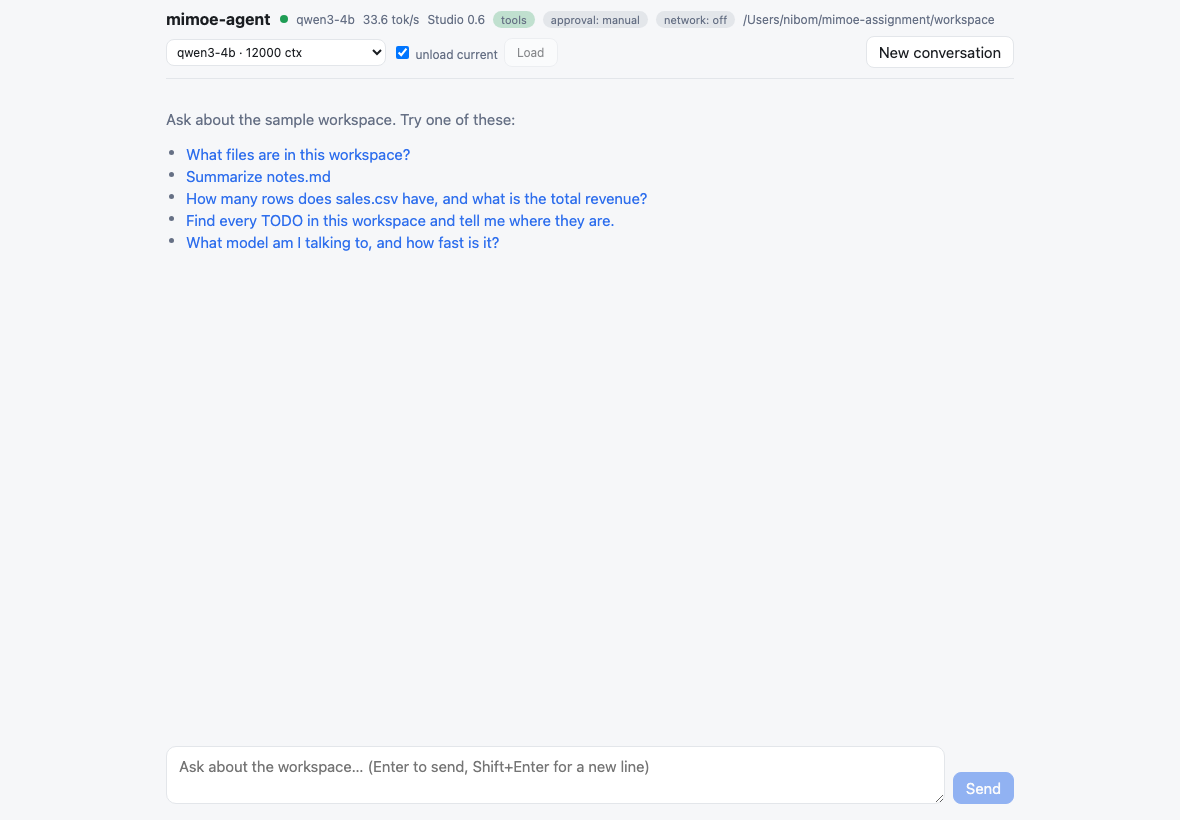
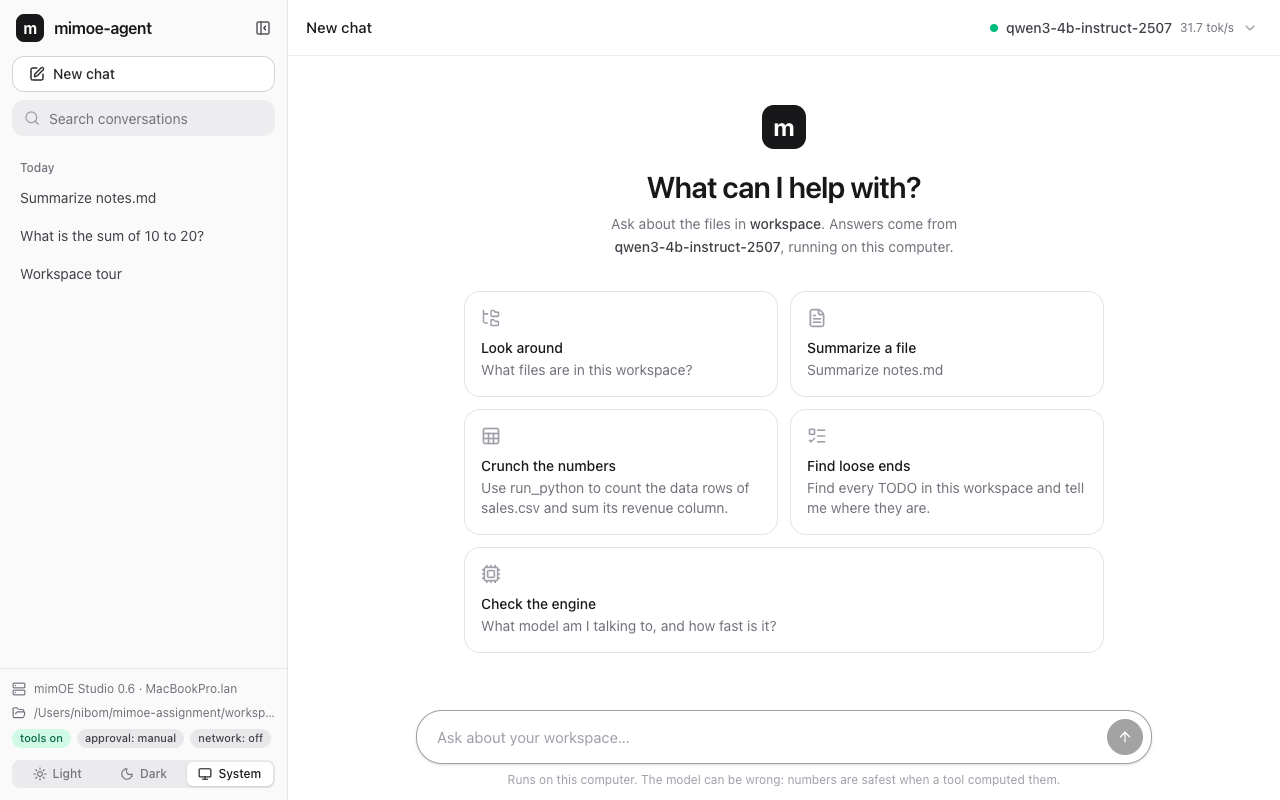
docs: README and screenshots for the redesigned UI and saved conversations

diff --git a/README.md b/README.md
@@ -28,15 +28,17 @@ the run and asks you to approve or deny the code, in the terminal and in the bro
 executes. Everything is on-device: the
 model runs in mimOE Studio (the agent never picks a cloud or provider model that Studio may also
 list), the agent's own tools never open a network connection, and the web server only listens on
-`127.0.0.1`.
+`127.0.0.1`. The web UI keeps your conversations on this computer and lists them in a sidebar,
+like ChatGPT's or Claude's, where you can search, rename and delete them; a reload or a server
+restart reopens them, a pending approval included.
 
-![The web UI on start: engine badge, model picker and the five demo prompts](docs/img/web-empty-state.png)
+![The web UI: saved conversations on the left, the model menu at the top, the demo prompts in the middle](docs/img/web-empty-state.png)
 
 ![run_python asks for approval before the code runs](docs/img/web-approval-panel.png)
 
 ![After Approve: the tool call as one line (click it for the code and its output), the answer and the stats for the turn](docs/img/web-approved-answer.png)
 
-![A failed tool call is one line too: the calculator refused a loop, so the agent ran Python instead and answered](docs/img/web-failed-step.png)
+![A saved conversation reopened from the sidebar in the dark theme, with the tool call's result opened](docs/img/web-history-dark.png)
 
 ## Quickstart
 
@@ -183,7 +185,8 @@ Two lines of LangGraph vocabulary, since `create_agent` compiles to a LangGraph 
 
 - **Thread** and **checkpoint**: a thread is one conversation, identified by a `thread_id`; after
   every step the graph saves its state (the messages so far and any pending interrupt) as a
-  checkpoint in an `InMemorySaver`, so a run can stop and continue later.
+  checkpoint, so a run can stop and continue later. The web server keeps checkpoints in SQLite
+  (`AsyncSqliteSaver`), so conversations survive a restart; the REPL keeps them in memory.
 - **Interrupt** and **resume**: `HumanInTheLoopMiddleware` raises an interrupt when the model calls
   `run_python`; the run ends with the state saved and the request reported to you; a later
   `Command(resume={"decisions": [...]})` on the same thread continues the graph from exactly that
@@ -197,10 +200,10 @@ Two lines of LangGraph vocabulary, since `create_agent` compiles to a LangGraph 
 | `ChatOpenAI` from langchain-openai, plus a handful of mimOE adjustments: chat completions pinned (`use_responses_api=False`), the token cap sent as `max_tokens` in `extra_body` (ChatOpenAI renames it to `max_completion_tokens`, which mimOE ignores), `timeout=200` and `max_retries=0` (above the engine's 180 s limit; never replay a timed-out inference), `httpx` clients with `trust_env=False` (a proxy variable must not capture localhost), and a small subclass that keeps the `reasoning_content` field 1.0 engines send. | The endpoint is OpenAI-compatible except for exactly these quirks, and each one is a one-line fix in the constructor. | A custom `httpx` client: I would have re-implemented streaming, tool-call delta assembly and the error classes, for no gain. |
 | Built-in `HumanInTheLoopMiddleware` on `run_python` | The pause survives across requests through the checkpoint, behaves identically in the CLI and the web UI, and the library validates the decision shape. | A prompt-only rule ("ask before running code"): a 4B model forgets instructions, and a safety boundary has to live in code, not in the prompt. |
 | FastAPI + Server-Sent Events (`sse-starlette`) | Two POSTs (`/api/chat`, `/api/resume`) that stream events; plain HTTP you can `curl -N`; nothing to keep alive between requests. | WebSockets: bidirectional, but nothing here needs the client to talk mid-stream, and an approval is naturally a second request. SSE is easier to test and debug. |
-| React + Vite + TypeScript with the built bundle committed in `web/dist` | The reviewer needs no Node.js; the UI is about 750 lines with no UI kit, and the reducer, SSE parser and stream consumer have vitest tests. | Streamlit or Gradio: fast to start, but the per-turn tool cards, the approval panel with one decision per request, Stop and resume did not fit their request/rerun model. |
+| React + Vite + TypeScript, styled with Tailwind CSS and shadcn/ui-style components (Radix for the menus, lucide icons), with the built bundle committed in `web/dist` | The reviewer needs no Node.js; the components are copied in rather than a UI framework, nothing loads from the internet (system fonts, no CDN), and the reducer, SSE parser, stream consumer, tool steps, sidebar grouping and Markdown safety have vitest tests. | Streamlit or Gradio: the per-turn tool steps, the approval panel with one decision per request, Stop and resume did not fit their request/rerun model. LangChain's agent-chat-ui: polished, but it talks only to a LangGraph Server, whose default accepts requests from any website (it could start a run and approve its own code), needs Node to run, and renders images from model output. |
 | uv | One command installs Python 3.13 and the locked dependencies on macOS, Windows and Linux; `uv run mimoe-agent` is the whole quickstart. | pip or poetry: pip needs a Python 3.13 and a venv first; poetry is one more tool to install. |
 | Plain `@tool` functions, with pandas available to `run_python` | Eight ordinary functions whose docstrings are the descriptions the model reads; pandas because the model reaches for it every time and gets CSVs right (my csv-module fallback miscounted the header row). | RAG, a vector store or SQLite: the workspace is small, `read_file`/`search_files`/`run_python` answer everything, and an index is more setup, more dependencies and one more thing that can be stale. |
-| An in-process fake engine for tests (`httpx.MockTransport` injected into ChatOpenAI and the engine client) | It reproduces the quirks of both engine generations (inline `<think>`, `reasoning_content`, `tool_0` ids, the error bodies, the model store), so 718 tests run on CI without Studio; eight live tests sit behind `MIMOE_LIVE=1`. | Recorded cassettes (VCR-style): brittle against streaming chunk boundaries, awkward to script a tool call followed by an answer, and tied to one engine version. |
+| An in-process fake engine for tests (`httpx.MockTransport` injected into ChatOpenAI and the engine client) | It reproduces the quirks of both engine generations (inline `<think>`, `reasoning_content`, `tool_0` ids, the error bodies, the model store), so 742 tests run on CI without Studio; eight live tests sit behind `MIMOE_LIVE=1`. | Recorded cassettes (VCR-style): brittle against streaming chunk boundaries, awkward to script a tool call followed by an answer, and tied to one engine version. |
 | Python 3.13 as the floor | The workspace jail uses `ntpath.isreserved` (new in 3.13) and `Path.is_junction` (3.12) for Windows; uv installs 3.13 anyway. | Supporting 3.10 to 3.12 with fallbacks: more code paths to test on Windows for no benefit to the reviewer. |
 
 ## How the components connect
@@ -215,7 +218,7 @@ flowchart TB
     ST["stream.py: graph output to events"]
     subgraph AGENT["agent.py: create_agent graph"]
         MW["middleware: compute reminder, Qwen cleanup, guardrails, 8-call limit, approval on run_python"]
-        CK[("InMemorySaver: one checkpoint per thread")]
+        CK[("checkpoints per thread: SQLite for the web UI, memory for the REPL")]
     end
     TOOLS["tools/: 8 tools"]
     WS[("workspace/")]
@@ -274,8 +277,14 @@ What each module does, in reading order:
   and Python delivers Ctrl-C only to the main thread; Ctrl-C sets the turn's cancel signal.
 - `server.py`: the HTTP API below, one `asyncio.Lock` per thread, lazy start (the server comes up
   even when Studio is down and reports the hint in `/api/health`), and the static bundle.
+- `history.py`: the conversation history. One SQLite file holds LangGraph's checkpoints and a small
+  table of titles and times for the sidebar; `transcript()` turns a reopened thread's messages
+  back into the turns the UI drew while they streamed (tool-call ids and a pending approval
+  included, so a resume after a restart lands on the right call).
 - `web/src`: `events.ts` (the wire types), `sse.ts` (parser), `api.ts`, `reducer.ts` (events to
-  ordered blocks per assistant turn), `useChat.ts`, and the components.
+  ordered blocks per assistant turn), `useChat.ts` and `useThreads.ts`, `threads.ts` (sidebar
+  grouping), and the components (`Sidebar`, `TopBar`, `ModelMenu`, `Transcript`, `ToolCard`,
+  `ApprovalPanel`, `Composer`).
 
 The HTTP API and the events (the full contract is in `docs/CONTRACTS.md`):
 
@@ -285,6 +294,9 @@ The HTTP API and the events (the full contract is in `docs/CONTRACTS.md`):
 | `POST /api/resume` | `{thread_id, interrupt_id, decisions: ["approve" or "reject", ...]}` | SSE stream; 409 if nothing is pending or the id is stale, 422 if the decisions do not fit |
 | `GET /api/health` | | model, tokens/s, context, engine version and generation, workspace, mode `tools` or `chat_only`, and the error hint when Studio is not usable |
 | `GET /api/models`, `POST /api/model` | `{model, unload_previous}` | list loaded and registered models; switch, re-probe and rebuild the agent |
+| `GET /api/threads` | | the saved conversations, most recently used first: `{id, title, created_at, updated_at}` |
+| `GET /api/threads/{id}` | | one conversation's turns as the UI draws them, and its pending approval, if any |
+| `PATCH /api/threads/{id}`, `DELETE /api/threads/{id}` | `{title}` | rename; delete the conversation and its checkpoints (409 while it runs) |
 | `GET /` | | the committed `web/dist` |
 
 | Event | Payload | When |
@@ -466,6 +478,11 @@ The agent's own tools never touch the network. Code you approve runs as you, wit
 with `--allow-network`, your network. The approval prompt is the only boundary. `--auto-approve`
 means trust-the-model. File contents are untrusted input.
 
+The web server saves every conversation, including the file contents and tool output the agent
+saw, in a SQLite file only your user can read (created 0600 in a 0700 folder on macOS and Linux).
+Deleting a conversation in the sidebar removes its checkpoints too; `serve --history off` keeps
+nothing on disk. The REPL never writes a history.
+
 What `run_python` does to keep accidents small (none of it is a sandbox):
 
 - The code runs in a fresh interpreter (`python -X utf8 -u -P _runner.py`) with the workspace as
@@ -549,6 +566,7 @@ silent `false`. `.env.example` lists the keys.
 | Force tools | `--force-tools` | `MIMOE_FORCE_TOOLS` | no | off; skips the probe and offers the tools anyway |
 | Tracing | `--trace` | `MIMOE_TRACE` | no | off; keeps LangSmith variables as they are |
 | Web port | `serve --port` | | | 8000, loopback only |
+| Conversation history | `serve --history PATH` (`off` keeps it in memory) | `MIMOE_HISTORY` | no | `conversations.sqlite` in the per-user data folder: `~/Library/Application Support/mimoe-agent/` on macOS, `%LOCALAPPDATA%\mimoe-agent\` on Windows, `~/.local/share/mimoe-agent/` on Linux |
 
 Exit codes of the REPL: 0 after `/quit` or EOF, 1 for a configuration or preflight failure (the
 hint is on stderr), 130 for Ctrl-C at the prompt. Piped input works
@@ -559,10 +577,10 @@ hint is on stderr), 130 for Ctrl-C at the prompt. Piped input works
 
 ```bash
 uv sync                                   # dependencies plus the dev group
-uv run pytest -q                          # 718 offline tests against the fake engine, no Studio needed
+uv run pytest -q                          # 742 offline tests against the fake engine, no Studio needed
 MIMOE_LIVE=1 uv run pytest -m live        # 8 live tests against a running Studio (a handful of completions)
 uvx ruff check . && uvx ruff format --check .
-cd web && npm ci && npm test && npm run build   # 35 vitest tests; the build writes web/dist
+cd web && npm ci && npm test && npm run build   # 41 vitest tests; the build writes web/dist
 ```
 
 The committed bundle: `web/dist` is in git so that reviewers do not need Node.js. After a UI change
@@ -620,9 +638,9 @@ a diff I could not explain did not go in.
 
 ## Limitations and next steps
 
-- No persistence across restarts. Threads live in an `InMemorySaver`; a page reload or `/new`
-  starts a new conversation, and an approval that was pending when the server restarted cannot be
-  resumed (the resume answers 409). Next step: a SQLite checkpointer.
+- Only the web UI saves conversations; the REPL keeps them in memory and `/new` starts over. A
+  conversation's title is its first message (rename it in the sidebar): a model-written title
+  would cost an extra model call per conversation on a laptop CPU.
 - No `fetch_url` tool yet. I cut it from this version; the design I want is a per-URL approval like
   `run_python`, IP pinning against SSRF (resolve once, refuse private ranges, connect to that
   address), a wall-clock limit and a size cap.
@@ -639,7 +657,9 @@ a diff I could not explain did not go in.
   that contain a number, 5 of 7 small sums in my replay went to a tool; the two answered from
   memory were right, but a 4B model can still get arithmetic wrong that way, so trust numbers that
   came from a tool. When it writes a file, it sometimes keeps a relative date ("two days from now")
-  or overwrites an existing file; the approval shows the code before anything runs.
+  or overwrites an existing file; the approval shows the code before anything runs. Asked to
+  "read the notes file", it guesses `notes.txt`, is told the file does not exist (it is
+  `notes.md`) and stops there instead of listing the folder.
 - Cancelling a turn closes the model stream, but Studio 0.6.5 has no cancel and keeps generating
   the abandoned answer for a moment, so the next prompt can wait a few seconds.
 - Single-user loopback server: no authentication, per-thread locks kept for the process lifetime,

diff --git a/docs/transcripts/web-session.md b/docs/transcripts/web-session.md
@@ -1,9 +1,10 @@
 # Web UI session against the real server (D3)
 
-> Later change (2026-09-25): tool calls now show as one muted line each ("Read notes.md",
+> Later changes (2026-09-25/26): tool calls now show as one muted line each ("Read notes.md",
 > "Calculating failed, trying a different approach"), with the arguments and the result one click
-> away, instead of the cards with status chips described below. The SSE frames and the server
-> behaviour recorded here are unchanged.
+> away, instead of the cards with status chips described below; the UI was then redesigned (a
+> sidebar of saved conversations, a model menu, light and dark themes). The SSE frames and the
+> chat, approval and model-switch behaviour recorded here are unchanged.
 
 Date: 2026-09-25. Engine: mimOE Studio 0.6.5 at `http://localhost:8083/mimik-ai/openai/v1`
 (engine v3.22.8 developer edition, node MacBookPro.lan) with `qwen3-4b` loaded; thinking off, `max_tokens`
